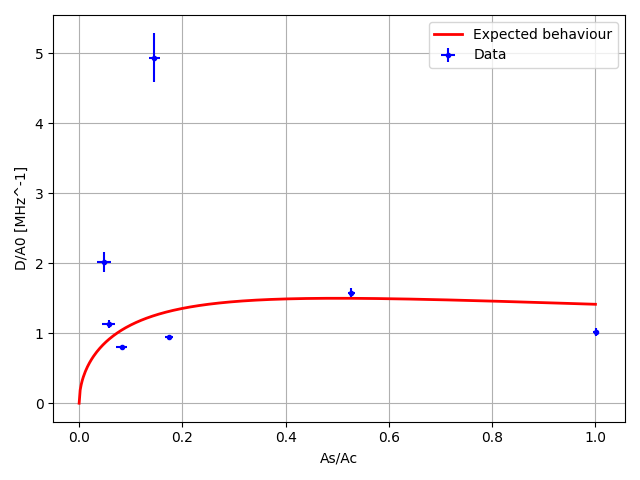
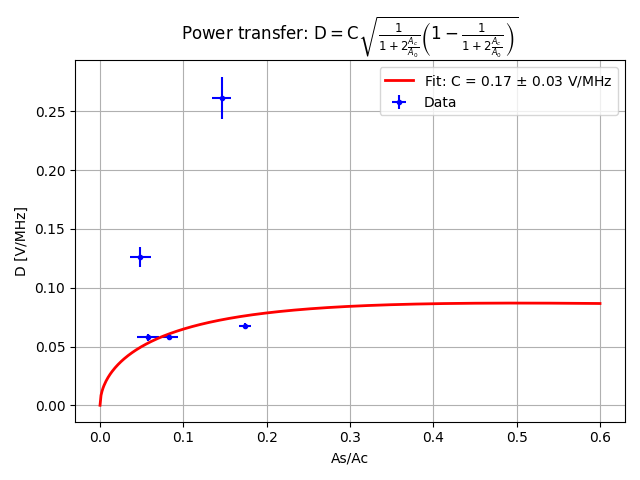
power transfer

diff --git a/power_transfer.py b/power_transfer.py
@@ -4,14 +4,13 @@ import numpy as np
 from uncertainties import ufloat
 import uncertainties.unumpy as unp
 from scipy.optimize import curve_fit
+from scipy import odr
 
 data_folder = 'data_non_confocal/clean_data'
 
 peaks_data = pd.read_csv(f'{data_folder}/fitted_parameters.csv')
 peaks_data = peaks_data.iloc[16:]
 peaks_data = peaks_data.drop(31)
-
-print(peaks_data)
 
 grouped_peaks = {label: group for label,
                  group in peaks_data.groupby(peaks_data['file_name'])}
@@ -51,49 +50,69 @@ slope_data = pd.read_csv(f'{data_folder}/calib_slopes_power.csv')
 
 # D units are V/MHz
 
-D_unc = unp.uarray(
-    np.abs(slope_data['D'].to_numpy()), slope_data['d_D'].to_numpy())
+D_values = np.abs(slope_data['D'].to_numpy())
+D_unc = slope_data['d_D'].to_numpy()
 
-y_unc = D_unc / unp.uarray(A_0, dA_0)
+mask = (x_unc_c0 > 0.7)
+x_unc_c0 = x_unc_c0[mask]
+x_unc_sc = x_unc_sc[mask]
+D_values = D_values[mask]
+D_unc = D_unc[mask]
 
-y_data = unp.nominal_values(y_unc)
-dy_data = unp.std_devs(y_unc)
 x_c0 = unp.nominal_values(x_unc_c0)
 dx_c0 = unp.std_devs(x_unc_c0)
 x_sc = unp.nominal_values(x_unc_sc)
 dx_sc = unp.std_devs(x_unc_sc)
 
 
-def circle(x, a):
-    return a * np.sqrt(x * (1 - x))
+def circle(par, x):
+    return par[0] * np.sqrt(x * (1 - x))
 
 
-def other_func(x, a):
-    factor = 1/(1+2*x)
-    return a * np.sqrt(factor * (1 - factor))
+def other_func(par, x):
+    ratio = 1/(1+2*x)
+    return par[0] * np.sqrt(ratio * (1 - ratio))
 
 
-xplot = np.linspace(0, 1, 500)
-yplot_c0 = circle(xplot, 3)
-yplot_sc = other_func(xplot, 3)
+circle_model = odr.Model(circle)
+other_model = odr.Model(other_func)
+aca0_data = odr.RealData(x_c0, D_values, dx_c0, D_unc)
+asac_data = odr.RealData(x_sc, D_values, dx_sc, D_unc)
+odr_circle = odr.ODR(aca0_data, circle_model, beta0=[0.4])
+odr_other = odr.ODR(asac_data, other_model, beta0=[0.4])
+out_circle = odr_circle.run()
+out_other = odr_other.run()
+out_circle.pprint()
+out_other.pprint()
+
+
+xplot_circ = np.linspace(0.4, 1, 500)
+xplot_other = np.linspace(0, 0.6, 500)
+yplot_c0 = circle(out_circle.beta, xplot_circ)
+yplot_sc = other_func(out_other.beta, xplot_other)
+
+fit_label_circ = f'Fit: C = {out_circle.beta[0]:.2g} $\\pm$ {out_circle.sd_beta[0]:.2f} V/MHz'
+fit_label_other = f'Fit: C = {out_other.beta[0]:.2g} $\\pm$ {out_other.sd_beta[0]:.2g} V/MHz'
 
 plt.figure()
-plt.errorbar(x_c0, y_data, yerr=dy_data, xerr=dx_c0,
+plt.errorbar(x_c0, D_values, yerr=D_unc, xerr=dx_c0,
              ls='', label='Data', color='blue', fmt='.')
-plt.plot(xplot, yplot_c0, label='Expected behaviour', color='red', linewidth=2)
+plt.plot(xplot_circ, yplot_c0, label=fit_label_circ, color='red', linewidth=2)
 plt.xlabel('Ac/A0')
-plt.ylabel('D/A0 [MHz^-1]')
+plt.ylabel('D [V/MHz]')
+plt.title(r'Power transfer: $\text{D}=\text{C}\sqrt{\frac{A_c}{A_0}\left(1-\frac{A_c}{A_0}\right)}$')
 plt.legend()
 plt.grid()
 plt.tight_layout()
 plt.savefig('data_non_confocal/figures/power_transfer_c0.png')
 
 plt.figure()
-plt.errorbar(x_sc, y_data, yerr=dy_data, xerr=dx_c0,
+plt.errorbar(x_sc, D_values, yerr=D_unc, xerr=dx_c0,
              ls='', label='Data', color='blue', fmt='.')
-plt.plot(xplot, yplot_sc, label='Expected behaviour', color='red', linewidth=2)
+plt.plot(xplot_other, yplot_sc, label=fit_label_other, color='red', linewidth=2)
 plt.xlabel('As/Ac')
-plt.ylabel('D/A0 [MHz^-1]')
+plt.ylabel('D [V/MHz]')
+plt.title(r'Power transfer: $\text{D}=\text{C}\sqrt{\frac{1}{1+2\frac{A_c}{A_0}}\left(1-\frac{1}{1+2\frac{A_c}{A_0}}\right)}$')
 plt.legend()
 plt.grid()
 plt.tight_layout()
